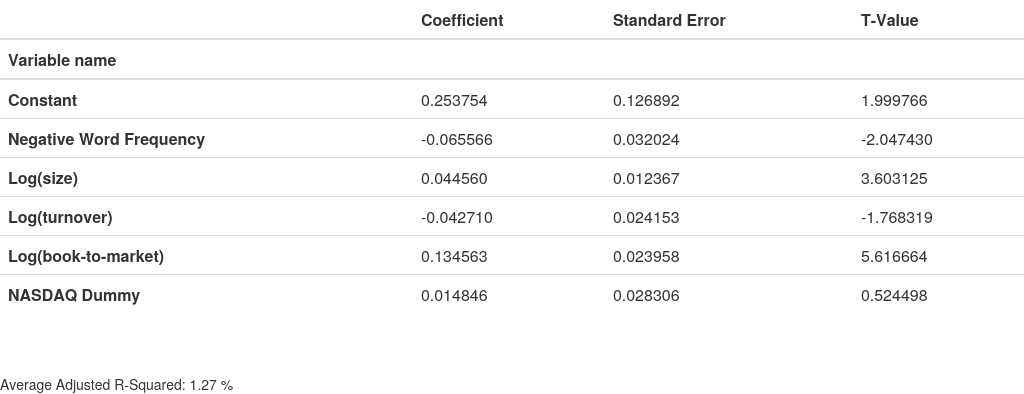
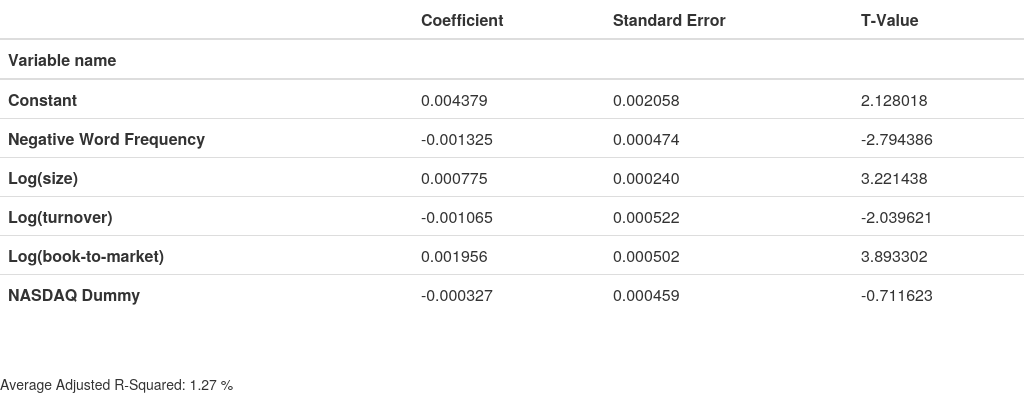
Added weighting by frequency

diff --git a/docs/results1994-2008.html b/docs/results1994-2008.html
@@ -25,39 +25,39 @@
   <tbody>
     <tr>
       <th>Constant</th>
-      <td>0.253754</td>
-      <td>0.126892</td>
-      <td>1.999766</td>
+      <td>0.004379</td>
+      <td>0.002058</td>
+      <td>2.128018</td>
     </tr>
     <tr>
       <th>Negative Word Frequency</th>
-      <td>-0.065566</td>
-      <td>0.032024</td>
-      <td>-2.047430</td>
+      <td>-0.001325</td>
+      <td>0.000474</td>
+      <td>-2.794386</td>
     </tr>
     <tr>
       <th>Log(size)</th>
-      <td>0.044560</td>
-      <td>0.012367</td>
-      <td>3.603125</td>
+      <td>0.000775</td>
+      <td>0.000240</td>
+      <td>3.221438</td>
     </tr>
     <tr>
       <th>Log(turnover)</th>
-      <td>-0.042710</td>
-      <td>0.024153</td>
-      <td>-1.768319</td>
+      <td>-0.001065</td>
+      <td>0.000522</td>
+      <td>-2.039621</td>
     </tr>
     <tr>
       <th>Log(book-to-market)</th>
-      <td>0.134563</td>
-      <td>0.023958</td>
-      <td>5.616664</td>
+      <td>0.001956</td>
+      <td>0.000502</td>
+      <td>3.893302</td>
     </tr>
     <tr>
       <th>NASDAQ Dummy</th>
-      <td>0.014846</td>
-      <td>0.028306</td>
-      <td>0.524498</td>
+      <td>-0.000327</td>
+      <td>0.000459</td>
+      <td>-0.711623</td>
     </tr>
   </tbody>
 </table><br/>

diff --git a/docs/results2008-2018.html b/docs/results2008-2018.html
@@ -25,39 +25,39 @@
   <tbody>
     <tr>
       <th>Constant</th>
-      <td>-0.028206</td>
-      <td>0.185110</td>
-      <td>-0.152376</td>
+      <td>0.000298</td>
+      <td>0.003041</td>
+      <td>0.097846</td>
     </tr>
     <tr>
       <th>Negative Word Frequency</th>
-      <td>0.043084</td>
-      <td>0.047199</td>
-      <td>0.912824</td>
+      <td>0.000399</td>
+      <td>0.000649</td>
+      <td>0.615295</td>
     </tr>
     <tr>
       <th>Log(size)</th>
-      <td>0.031714</td>
-      <td>0.020948</td>
-      <td>1.513977</td>
+      <td>0.001024</td>
+      <td>0.000326</td>
+      <td>3.143577</td>
     </tr>
     <tr>
       <th>Log(turnover)</th>
-      <td>-0.015250</td>
-      <td>0.044189</td>
-      <td>-0.345121</td>
+      <td>-0.001017</td>
+      <td>0.000506</td>
+      <td>-2.008974</td>
     </tr>
     <tr>
       <th>Log(book-to-market)</th>
-      <td>0.061377</td>
-      <td>0.025073</td>
-      <td>2.447896</td>
+      <td>0.001865</td>
+      <td>0.000593</td>
+      <td>3.142581</td>
     </tr>
     <tr>
       <th>NASDAQ Dummy</th>
-      <td>0.026954</td>
-      <td>0.051911</td>
-      <td>0.519224</td>
+      <td>0.001222</td>
+      <td>0.000940</td>
+      <td>1.299777</td>
     </tr>
   </tbody>
 </table><br/>

diff --git a/docs/summary_statistics.html b/docs/summary_statistics.html
@@ -11,8 +11,8 @@
   <thead>
     <tr>
       <th></th>
-      <th colspan="3" halign="left">Original Sample (1994-2008)</th>
-      <th colspan="3" halign="left">New Sample (2008 - 2018)</th>
+      <th colspan="3" halign="left">Original Sample 1994-2008<br/>(N = 40032)</th>
+      <th colspan="3" halign="left">New Sample 2008-2018<br/>(N = 25460)</th>
     </tr>
     <tr>
       <th></th>

diff --git a/analysis.py b/analysis.py
@@ -237,14 +237,21 @@ def prepare_analysis(MAIN, year_bgn, year_end):
     return master, outcome_var, predictor_vars
     
 
-def ols_coef(section, outcome_var, predictor_vars):
+def ols_coef(section, outcome_var, predictor_vars, len_N):
     X = section[predictor_vars]
     y = section[outcome_var]
     X = sm.add_constant(X)
     model = sm.OLS(y, X).fit()
     series = model.params
+
+    # The estimates for each period are weighted by frequency, 
+    # since the calendar distribution of file dates is clustered 
+    # around specific dates (see Griffin (2003)).
+    series *= len(section) / len_N
+
     # Add r_squared so we can take the mean later
     series['r_squared'] = model.rsquared_adj
+    
     return series
 
 
@@ -264,7 +271,7 @@ def do_fama_macbeth_analysis(MAIN, year_bgn, year_end):
     master, outcome_var, predictor_vars = prepare_analysis(MAIN, year_bgn, year_end)
     
     cross_sections = master.groupby(by=['year', 'quater'])
-    cross_section_results = cross_sections.apply(ols_coef, outcome_var, predictor_vars)
+    cross_section_results = cross_sections.apply(ols_coef, outcome_var, predictor_vars, len(master))
     print(cross_section_results)
     newey_west_df = pd.DataFrame(columns=['Variable name', 'Coefficient', 'Standard Error', 'T-Value'])
     newey_west_df = newey_west_df.set_index(['Variable name'])
@@ -318,7 +325,7 @@ def do_summary_statistics(MAIN):
 
     summary_df = pd.DataFrame(columns=[str(i) for i in range(6)])
     summary_df.columns = pd.MultiIndex.from_product([
-        ['Original Sample (1994-2008)', 'New Sample (2008 - 2018)'], 
+        ['Original Sample 1994-2008\n(N = {})'.format(len(master1)), 'New Sample 2008-2018\n(N = {})'.format(len(master2))], 
         ['Mean', 'Median', 'Standard Deviation']
     ])
     summary_df.index = pd.Index([], name='Variable Name')
@@ -346,7 +353,10 @@ def do_summary_statistics(MAIN):
 
     with open("docs/summary_statistics.html", 'w') as f_obj:
         f_obj.write(BOOTSTRAP)
-        f_obj.write(summary_df.to_html(classes=["table"]).replace('border="1"', ''))
+        f_obj.write(summary_df.to_html(classes=["table"])\
+            .replace('border="1"', '')\
+            .replace('\\n', '<br/>')
+        )
 
     print(summary_df)
 
@@ -382,7 +392,7 @@ def main():
         # do_sample_profiling(MAIN, 1994, 2008, 'original_study_sample.html')
         # do_full_data_profiling(MAIN, 1994, 2008, 'original_study_full_dataset.html')
         do_summary_statistics(MAIN)
-        do_quantile_graph(MAIN)
+        # do_quantile_graph(MAIN)
 
 
 if __name__ == '__main__':
